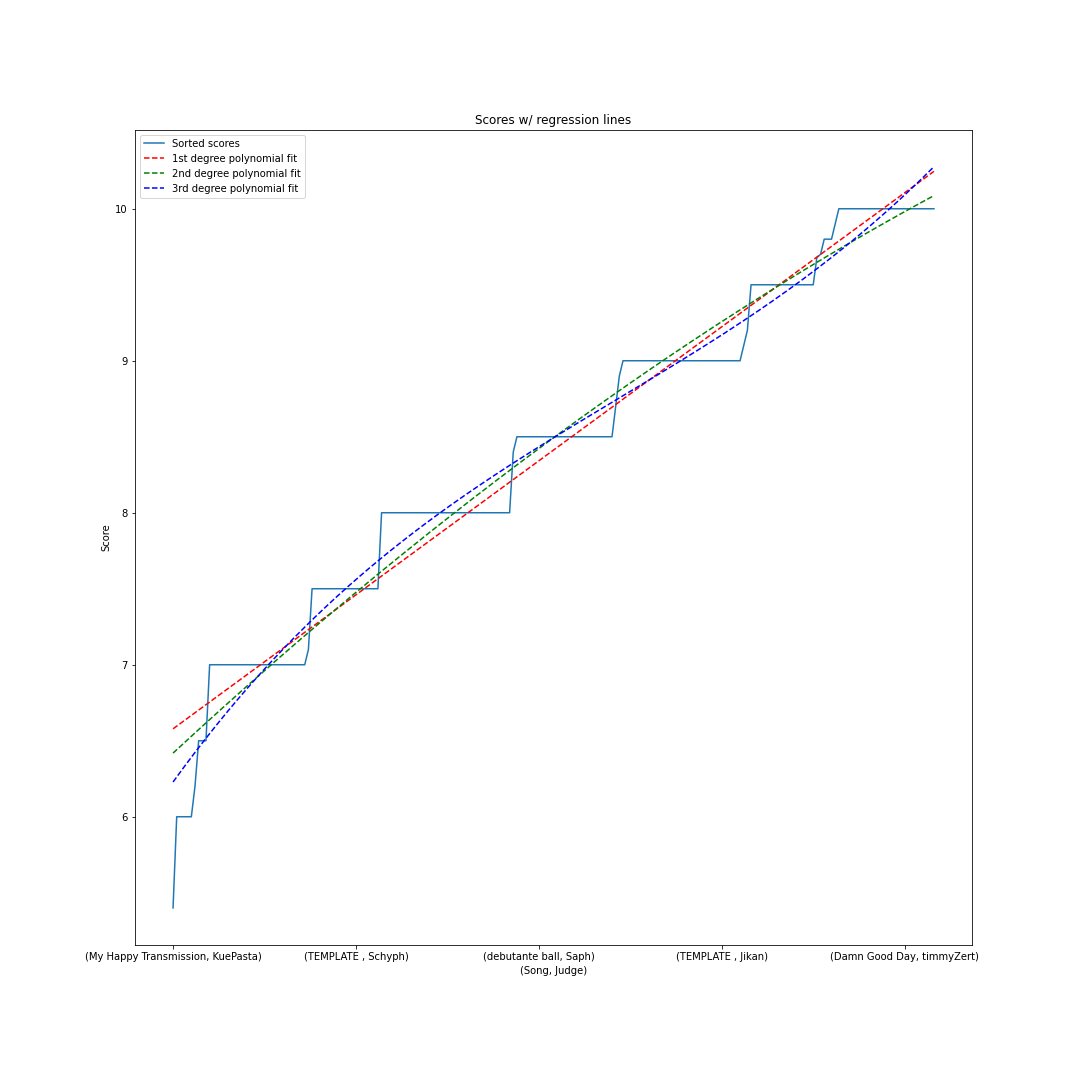
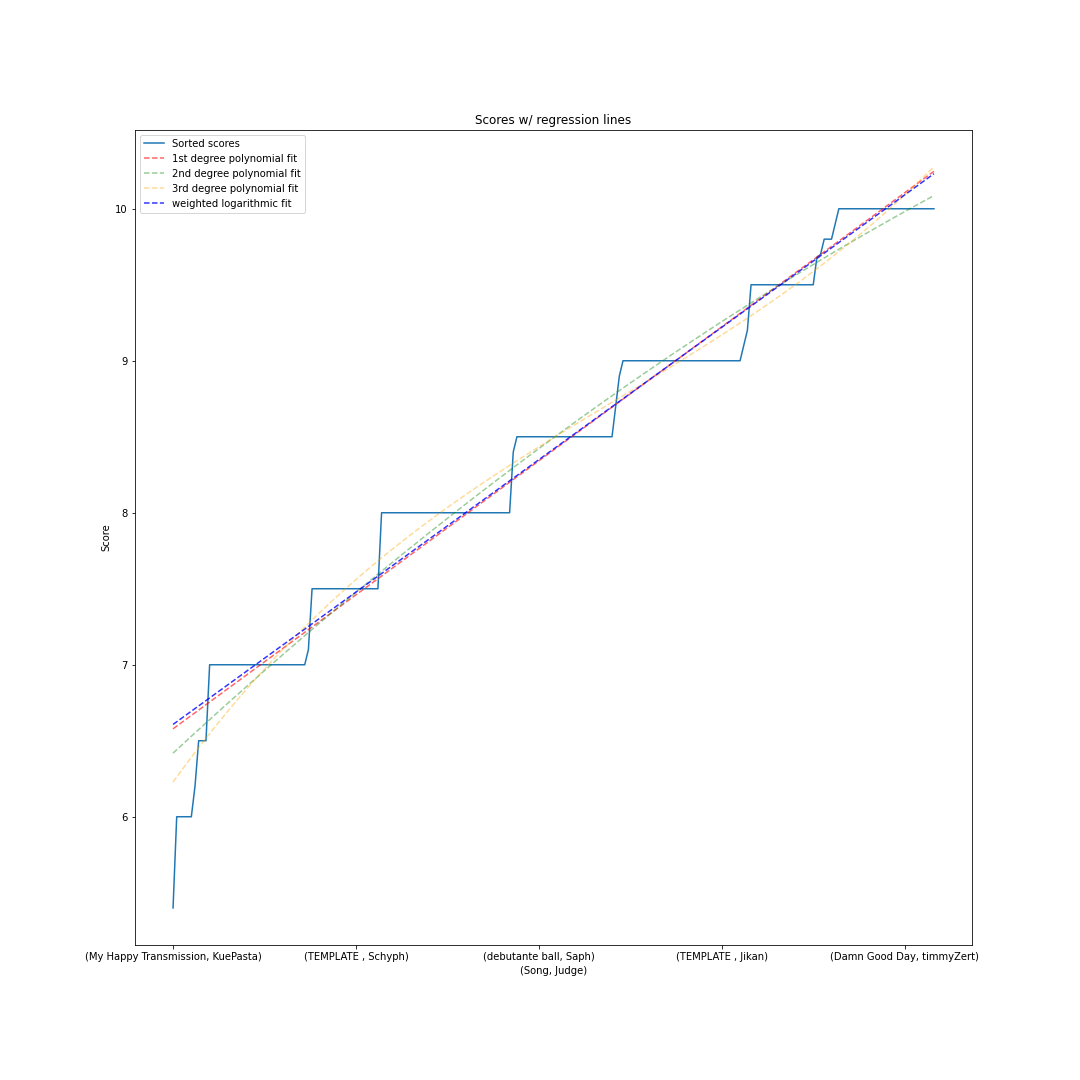
updated w/ logarithmic fit

diff --git a/specter/analyse.py b/specter/analyse.py
@@ -48,17 +48,25 @@ ax = data_stack_sorted.plot(figsize=(15, 15), label='Sorted scores')
 # https://stackoverflow.com/questions/37234163/how-to-add-a-line-of-best-fit-to-scatter-plot
 # estimate first degree polynomial
 xvals = range(len(data_stack_sorted))
-z = np.polyfit(range(len(data_stack_sorted)), data_stack_sorted, deg=1)
+z = np.polyfit(xvals, data_stack_sorted, deg=1)
 p = np.poly1d(z)
-z2 = np.polyfit(range(len(data_stack_sorted)), data_stack_sorted, deg=2)
+z2 = np.polyfit(xvals, data_stack_sorted, deg=2)
 p2 = np.polyval(z2, xvals)
-z3 = np.polyfit(range(len(data_stack_sorted)), data_stack_sorted, deg=3)
+z3 = np.polyfit(xvals, data_stack_sorted, deg=3)
 p3 = np.polyval(z3, xvals)
+z3 = np.polyfit(xvals, data_stack_sorted, deg=3)
+p3 = np.polyval(z3, xvals)
+# zexp = np.polyfit(xvals, np.log(data_stack_sorted), deg=1)
+# pexp = np.polyval(zexp, xvals)
+zexpw = np.polyfit(xvals, data_stack_sorted, deg=1, w=np.sqrt(data_stack_sorted))
+pexpw = np.polyval(zexpw, xvals)
 
 # ax.axline((0, z[1]), slope=z[0], c='red', linestyle='--', label='1st degree polnomial fit')
-ax.plot(xvals, p(xvals), c='red', linestyle='--', label='1st degree polynomial fit')
-ax.plot(xvals, p2, c='green', linestyle='--', label='2nd degree polynomial fit')
-ax.plot(xvals, p3, c='blue', linestyle='--', label='3rd degree polynomial fit')
+ax.plot(xvals, p(xvals), c='red', linestyle='--', alpha=0.6, label='1st degree polynomial fit')
+ax.plot(xvals, p2, c='green', linestyle='--', alpha=0.4, label='2nd degree polynomial fit')
+ax.plot(xvals, p3, c='orange', linestyle='--', alpha=0.4, label='3rd degree polynomial fit')
+# ax.plot(xvals, pexpw, c='orange', linestyle='--', label='logarithmic fit')
+ax.plot(xvals, pexpw, c='blue', linestyle='--', alpha=0.8, label='weighted logarithmic fit')
 
 ax.set_xlabel('(Song, Judge)')
 ax.set_ylabel('Score')
